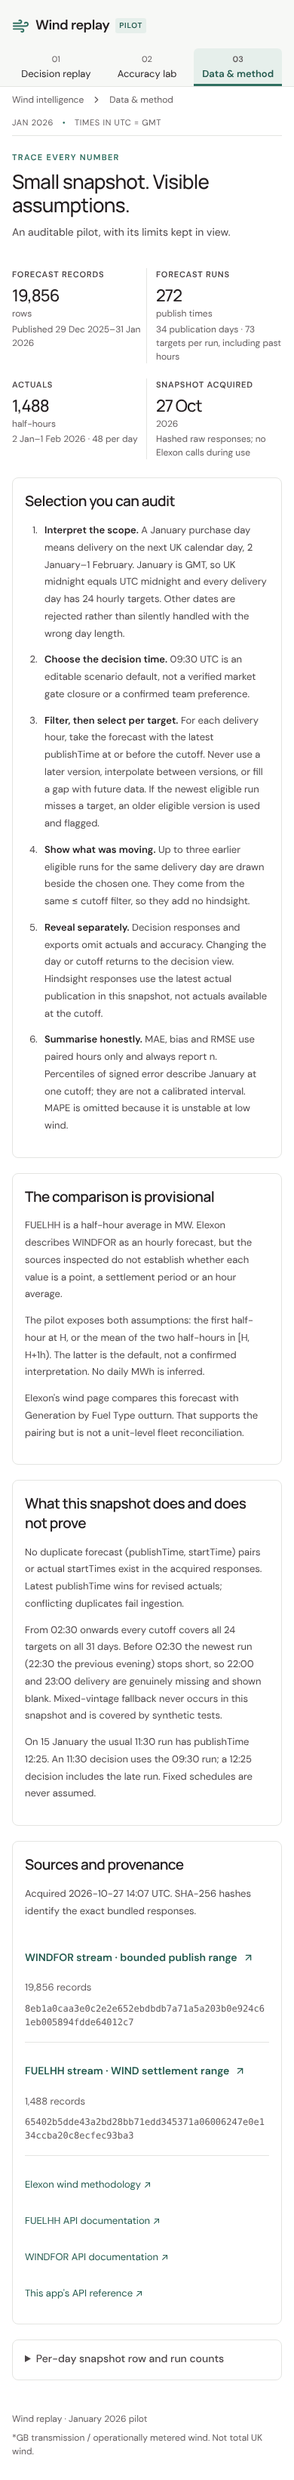
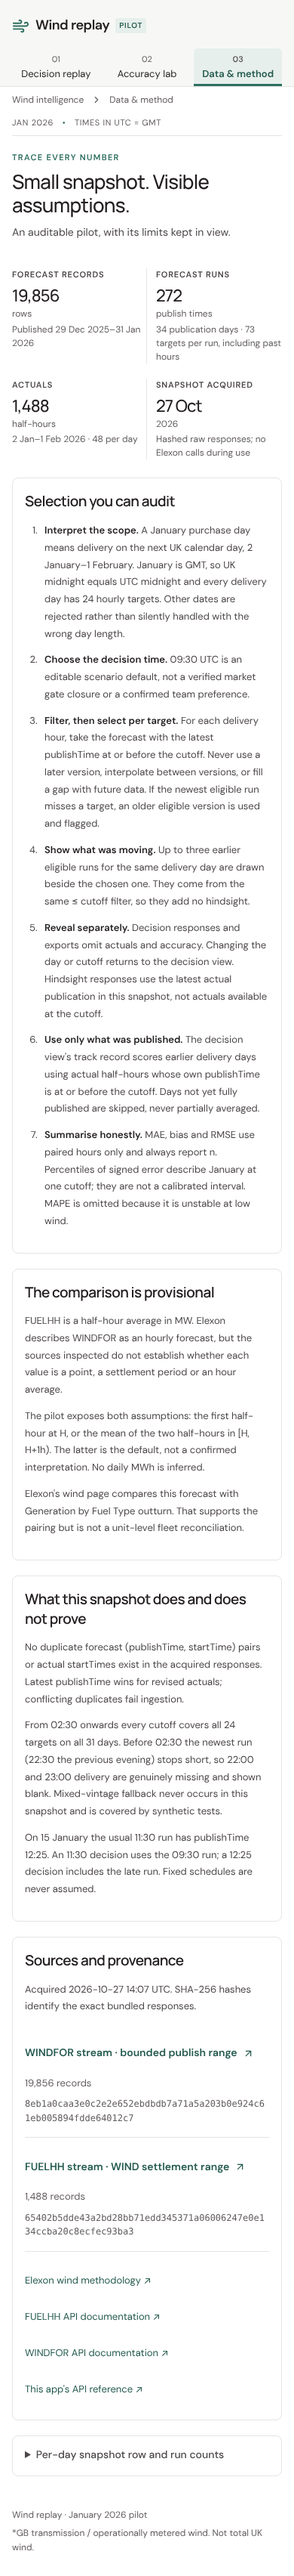
Document the track record, backtest findings and CI result
Record the passing CI run for the second pass, describe the publish-time
gating and its limits, and refresh screenshots.

diff --git a/README.md b/README.md
@@ -6,7 +6,8 @@ A January 2026 wind-forecast workbench for a UK day-ahead purchasing team. It an
 
 - **Repository.** Public at https://github.com/shubhanshu2103/k7m2q9.
 - **First version.** GitHub Actions passed for commit `5276489`: [run 40538346465](https://github.com/shubhanshu2103/k7m2q9/actions/runs/40538346465). That run covered pytest, the production build, Playwright, and a Docker image build with a container health/replay smoke.
-- **Second pass.** Described below. It was verified locally (see [Verify](#verify)) but has **not yet been pushed, so CI has not run on it**. A local Docker rebuild of the second pass was blocked by Docker Hub rate limiting (HTTP 429) in the authoring environment.
+- **Second pass.** Pushed to branch `second-pass-decision-workbench`; GitHub Actions passed every step for commit `8f3746b`, including the Docker build and container smoke: [run 40546173350](https://github.com/shubhanshu2103/k7m2q9/actions/runs/40546173350). `main` still points at the first version.
+- **Third pass.** The decision-time track record and its backtest, described below. Verified locally (see [Verify](#verify)); CI has not run on it until it is pushed.
 - **Still pending.** Vercel/Heroku deployment: **no deployed application link exists yet**. Also pending: the demo video and the form submission.
 
 ## Product
@@ -17,6 +18,7 @@ The app has three screens, and every scenario is kept in the URL so a view can b
   - **Forecast used.** The 24 hourly forecasts for the next UK day, chosen per target from runs published at or before the cutoff.
   - **Provenance.** The run used, its age and lead times, and which targets have no eligible forecast. Missing targets are left blank.
   - **Earlier runs and revision.** Up to three earlier eligible runs are drawn beside the chosen one, with the mean and largest change since the previous run. A buyer can see whether the outlook was moving, with no hindsight.
+  - **Track record known at decision time.** How forecasts at the same cutoff fared over the last seven complete delivery days: MAE, bias, bias by hour and each day. It counts only actuals whose own `publishTime` is at or before the cutoff, so it was genuinely knowable when deciding. It is labelled as context, not a prediction or a correction.
   - **Export.** The decision export contains no actuals.
 - **Hindsight is a separate, labelled mode.** "Reveal actuals" switches to an amber *Hindsight view* with MAE, signed bias, the largest miss and a per-hour error chart.
   - Changing the day or the cutoff starts a new decision and returns to the forecast-only view, so hindsight cannot silently carry over.
@@ -26,6 +28,7 @@ The app has three screens, and every scenario is kept in the URL so a view can b
   - **Shortfall summary.** How often, and by how much, wind came in below the as-of forecast (percentiles of signed error).
   - **Bad days.** Daily error chart with the five worst days. Clicking a bar or a listed day opens that exact replay in hindsight mode with the same cutoff and rule.
   - **Cutoff sweep.** "Would deciding later have helped?" across 24 hourly cutoffs, flagging cutoffs whose coverage is incomplete.
+  - **Track-record backtest.** "Was the recent track record a useful guide?" Compares each day's track record with how that day turned out, and backtests a naive "subtract the recent bias" adjustment. Nothing used is published after the cutoff.
   - **Also included:** comparison-rule sensitivity and hour-of-day bias.
 - **Data & method.** Source URLs, response hashes, per-day record counts, method steps and the limitations behind the numbers.
 
@@ -77,7 +80,7 @@ npm run test:e2e
 python scripts/audit.py             # independent recomputation of the default month
 ```
 
-Observed for the second pass, locally: **37 Python tests and 12 browser tests pass**, the strict TypeScript build passes and the independent audit reproduces the baseline numbers exactly. Browser tests start and stop their own backend on port 8000, so stop any local server first. No tests are skipped. Starlette's TestClient emits one deprecation warning; it does not fail the tests.
+Observed for the current working tree, locally: **42 Python tests and 13 browser tests pass**, the strict TypeScript build passes and the independent audit reproduces the baseline numbers exactly. Browser tests start and stop their own backend on port 8000, so stop any local server first. No tests are skipped. Starlette's TestClient emits one deprecation warning; it does not fail the tests.
 
 **Python tests cover:**
 - inclusive publication boundaries and exclusion of future versions
@@ -87,6 +90,7 @@ Observed for the second pass, locally: **37 Python tests and 12 browser tests pa
 - percentile definitions
 - earlier-run selection: always older than the chosen run, never after the cutoff
 - the real early-cutoff coverage gap and the cutoff sweep
+- the track record: complete days only, an actual published one minute after the cutoff is excluded, the inclusive boundary, and every real track-record actual published by the cutoff
 - validation and 422 messages
 - CSV privacy and filenames
 - all 31 delivery days at seven cutoff scenarios
@@ -138,13 +142,14 @@ Neither rule is semantically established, and similar sensitivity results do not
 
 The official Elexon wind page directly compares WINDFOR with Generation by Fuel Type outturn. That supports the intended comparison but does not establish a unit-level fleet reconciliation. Scope is visible/operationally metered GB transmission wind, **not all embedded wind or total UK wind**.
 
-Actuals use the latest publishTime returned per startTime in the fixed snapshot. They are retrospective, not claimed to have been available at the purchase cutoff. This response has one row per actual startTime and no revisions, which does not prove historical revisions never existed. Exact duplicate observations are deduplicated; conflicting generation at identical keys raises an error rather than silently picking one.
+Actuals use the latest publishTime returned per startTime in the fixed snapshot. In hindsight views they are retrospective and not claimed to have been available at the purchase cutoff. The decision-time track record is the one exception, and it is gated: it uses only past delivery days whose actual rows carry a `publishTime` at or before the cutoff. FUELHH rows in this snapshot were published 30–145 minutes after each half-hour began. This response has one row per actual startTime and no revisions, which does not prove historical revisions never existed. Exact duplicate observations are deduplicated; conflicting generation at identical keys raises an error rather than silently picking one.
 
 ### Metrics
 
 - **Sign convention.** Error is forecast minus actual, so positive bias means over-forecast.
 - **What is reported.** MAE, bias, RMSE and the largest absolute error use paired hours only and always report n. Empty samples give null, never zero.
 - **Shortfall percentiles.** These are empirical P10/P50/P90 of signed error and P50/P90 of absolute error, using linear interpolation between ranks (numpy's default), plus the share of over-forecast hours. They describe January at one cutoff; they are **not** a calibrated interval, and none of them appears in the decision view.
+- **Track record.** For a decision at cutoff C on day D, the window is the up to seven most recent earlier purchase days whose delivery-day actuals were *all* published at or before C on D. Each day is scored against the forecast selected at C on its own purchase day. Incomplete days are skipped rather than averaged, because a part-reported day would over-represent the night. The snapshot holds one version per actual half-hour; if that version was published after C, the half-hour counts as missing even if an earlier version may have existed.
 - **MAPE.** Omitted because it is unstable at low wind.
 
 ### Snapshot findings
@@ -163,6 +168,10 @@ Actuals use the latest publishTime returned per startTime in the fixed snapshot.
 - **Headline metrics.** 744 pairs, MAE 2,013.01 MW, signed bias +1,729.93 MW, RMSE 2,505.94 MW. First-half-hour comparison gives MAE 1,995.57 MW and bias +1,727.98 MW.
 - **Shortfall percentiles.** 84% of hours were over-forecast. The 90th percentile of signed error is 4,144 MW, the median absolute error 1,608 MW and the 10th percentile −489 MW.
 - **Five worst days.** Delivery 28, 12, 11, 21 and 27 January. Every hour of those days was over-forecast (MAE equals bias).
+
+**Track-record backtest (09:30, hourly mean, 29 purchase days with a track record, 696 hours).**
+- **Not predictive day to day.** The correlation between the trailing seven-day bias and that day's bias is −0.40; for MAE it is −0.52. A poor week did not foreshadow a poor next day. The windows overlap and n is small, so this is weak evidence either way.
+- **Bias was steady.** Subtracting the trailing bias from every forecast would have lowered MAE from 1,969 to 1,689 MW (−14%). This is in-sample for one month, and the bias's cause is unknown, so it is a question for the client, not a recommended correction. The app never shows an adjusted forecast.
 
 **Cutoff sweep (hourly cutoffs, hourly mean).**
 - **MAE falls slowly** from about 2,070 MW (03:00) to 2,013 MW (10:00), 1,901 MW (12:00) and 1,825 MW (23:00).
@@ -186,9 +195,9 @@ Refresh intentionally replaces the snapshot. After review, commit the new respon
 - `GET /api/health`
 - `GET /api/meta`: counts, per-day provenance and the snapshot manifest.
 - `GET /api/replay?decision=2026-01-15&cutoff=11:30&rule=hour_mean&reveal=false`
-  - Returns 24 points with `forecast`, `publishTime`, `fallback` and `age_hours`, plus `coverage` and `prior_runs`.
+  - Returns 24 points with `forecast`, `publishTime`, `fallback` and `age_hours`, plus `coverage`, `prior_runs` and `track_record` (built only from actuals published at or before the cutoff).
   - With `reveal=true` it also returns `actual`, `actual_publishTimes`, `error`, `metrics` and actual coverage. With `reveal=false` these are absent.
-- `GET /api/analysis?cutoff=09:30&rule=hour_mean`: month metrics, `distribution`, rule sensitivity, per-day and per-hour metrics.
+- `GET /api/analysis?cutoff=09:30&rule=hour_mean`: month metrics, `distribution`, rule sensitivity, per-day and per-hour metrics, and `track_record_check`.
 - `GET /api/cutoff-sweep?rule=hour_mean`: month MAE, bias, RMSE, paired n, forecast coverage and mean forecast age for each hourly cutoff 00:00–23:00.
 - `GET /api/export`: same parameters as replay. Returns CSV named by day, cutoff and view, e.g. `wind-replay-2026-01-15-0930-decision.csv`. Hidden actuals remain absent from the decision export.
 - `GET /docs`: generated API reference.
@@ -203,7 +212,8 @@ Refresh intentionally replaces the snapshot. After review, commit the new respon
 
 ```
 backend/engine.py              Pure domain logic: validation, per-target selection, earlier runs,
-                               actual revisions, metrics and percentiles; in-memory snapshot store
+                               actual revisions, metrics, percentiles and the publish-time-gated
+                               track record; in-memory snapshot store
 backend/app.py                 FastAPI routes, 422 mapping, CSV export, static asset serving
 frontend/main.tsx              Entry point
 frontend/App.tsx               Shell, navigation, URL-synchronised scenario, focus management
@@ -275,6 +285,7 @@ AI assistance was used in this project, as the brief permits.
   - the frontend split
   - URL state and hindsight reset
   - earlier runs, shortfall percentiles, the cutoff sweep and drill-through
+  - in a later pass, the decision-time track record and its backtest
   - styling and accessibility fixes
   - new tests and these documentation updates
 - **Review.** The author reviews and is responsible for all changes.

diff --git a/docs/demo-outline.md b/docs/demo-outline.md
@@ -8,6 +8,7 @@ Target: about 9 minutes in total, each part under five minutes. Recording, uploa
 2. **Decision view (60 s).** Open on 15 January at 09:30. Point to the green *Decision view* banner, then cover:
    - **What was available.** 24/24 targets, the 09:30 run, created 0 h before the cutoff, with lead times of 14.5–37.5 h.
    - **Whether it was moving.** The three earlier runs are dashed. The latest run raised the evening by up to about 650 MW.
+   - **Track record.** Below the chart: at this cutoff, the past seven days' forecasts missed by about 2,300 MW on average and ran about 1.6 GW high. Every actual behind that was already published by 09:30.
    - **Use.** "This is what you could have acted on. No later run is ever used, and the export contains no actuals."
 3. **Point-in-time precision (40 s).** Set the cutoff to 11:30. The run used stays at 09:30, because the usual 11:30 run was only recorded at 12:25. Set 12:25 and it appears. Then open the shared link `?decision=2026-01-01&cutoff=01:00`: at 01:00 the 22:00–23:00 targets have no forecast yet, and the app leaves them blank rather than guessing.
 4. **Hindsight (50 s).** Click *Reveal actuals*. The banner turns amber. Show MAE 859 MW, bias +397 MW and the largest miss of +2,577 MW at 21:00. The error chart shows the evening over-forecast. Change the day: the app returns to the forecast-only view, so hindsight can't leak into the next decision.
@@ -16,6 +17,7 @@ Target: about 9 minutes in total, each part under five minutes. Recording, uploa
    - **Shortfall reading.** 84% of hours over-forecast, and in one hour in ten wind fell short of the forecast by more than about 4,100 MW. "That is the scale of error to keep in mind when deciding how much other generation you might need."
    - **Drill-through.** Click the worst day (delivery 28 January) to open its replay in hindsight.
    - **Cutoff sweep.** Waiting until midday lowers MAE by about 110 MW, but the bias barely moves.
+   - **Track-record check.** We tested the track record before asking you to trust it. A bad week did not predict a bad next day, but the over-forecast was steady enough that simply subtracting it would have cut January's error by 14%. That is the first thing to investigate together.
 6. **Close (20 s).** Reproducible decision context, quantified and honest error, and every assumption visible. Next step with the client: agree the cutoff and the temporal meaning, and investigate the bias together.
 
 Say plainly: this is GB transmission-metered wind. It does not use demand or price data, so it does not recommend a purchase volume.
@@ -27,6 +29,7 @@ Say plainly: this is GB transmission-metered wind. It does not use demand or pri
    - **`parse_scenario`.** The single validation boundary, mapped to 422.
    - **`select_forecasts`.** Filters `publishTime <= cutoff`, then takes the max per target. Missing stays missing; fallback is flagged.
    - **`_prior_runs`.** Uses the same filter, so it cannot leak future data.
+   - **`track_record`.** Gated by each actual's own `publishTime`. The test where an actual published one minute late is excluded is the one to show.
    - **`metrics` / `distribution`.** Paired points only, n always reported, null rather than zero.
 3. **Tests (60 s).** Show the test kinds:
    - **Synthetic tests:** inclusive boundary, future exclusion, mixed vintage, missing half-hour, conflicting duplicates and prior runs.

diff --git a/docs/architecture.md b/docs/architecture.md
@@ -28,6 +28,7 @@ Bounded Elexon GETs -> raw JSON + manifest -> in-memory Store (backend/engine.py
 - **Store loading.** The store normalises timestamps to aware UTC, rejects invalid numeric values, resolves actual revisions and indexes forecasts by target.
 - **`select_forecasts`.** Inclusive and per target.
 - **`_prior_runs`.** Reuses the same `publishTime <= cutoff` filter, then keeps up to three runs older than the newest selected run. It cannot add hindsight by construction.
+- **`track_record`.** Replays earlier purchase days at the same cutoff and pairs them with actuals through `_actual_for(..., available_by=cutoff)`, which treats any half-hour published after the cutoff as missing. Only complete days enter the window. `_track_record_check` backtests that context across the month. The API adds `track_record` to replay responses but not to CSV exports.
 - **`metrics` and `distribution`.** Pure functions over paired points.
 - **Caching.** Full-month analysis and the 24-cutoff sweep are `lru_cache`d per process. The data is immutable, and an uncached sweep takes about 1.1 s locally.
 
@@ -57,6 +58,9 @@ A multistage image builds TypeScript and React, then copies only the assets and 
   - There is no demand, price or portfolio data, so they are not turned into a volume.
 - **Cutoff sweep.** The cutoff is an assumption, so the useful question is how sensitive the answer is to it. The sweep shows that later cutoffs reduce MAE only modestly while the large positive bias persists. It also surfaced a real coverage gap for cutoffs before 02:30.
   - It does not claim when the market actually closes.
+- **Track record at decision time (third pass).** FUELHH rows carry their own `publishTime`, 30–145 minutes after each half-hour in this snapshot. So the decision view can show how the same cutoff's forecasts fared over recent complete delivery days using only actuals published by the cutoff. This is the legitimate decision-time version of "consider the quantified error".
+  - **Backtested in the Lab before anyone relies on it.** Day to day it was not predictive in January (correlations −0.40 for bias, −0.52 for MAE over 29 days). A naive bias subtraction would have cut MAE by 14%, but that is in-sample and the bias's cause is unknown.
+  - **What the UI does with that.** It shows the record as context with that caveat, and never shows an adjusted forecast.
 - **Drill-through over a new screen.** Poor days link to the exact replay with the same cutoff and rule, in an explicitly labelled hindsight mode. No new tab was added.
 
 ## Choices

diff --git a/docs/verification.md b/docs/verification.md
@@ -11,7 +11,24 @@
 
 These results apply to that commit only. The second pass does not inherit them.
 
-## Second pass (local, 27 October 2026, not yet pushed)
+## Second pass in CI
+
+Pushed to `second-pass-decision-workbench`. GitHub Actions [run 40546173350](https://github.com/shubhanshu2103/k7m2q9/actions/runs/40546173350) on commit `8f3746b` passed every step on Python 3.12 and Ubuntu: pytest (37), the audit, the production build, Playwright (12), the Docker image build, and the container health and replay smoke. This resolves the local Docker gap noted below.
+
+## Third pass (local, 27 October 2026)
+
+- **Formatting.** A Prettier-only commit formats the frontend and browser tests; no behaviour change.
+- **`python -m pytest -q`.** 42 passed. Five new tests:
+  - synthetic complete-day track record
+  - an actual published one minute after the cutoff is excluded, and the inclusive boundary at that minute
+  - real-snapshot gating: every actual behind the 15 and 31 January track records was published by the cutoff
+  - the pinned backtest values
+  - the decision replay carrying a track record with no current-day actuals, and an unchanged export
+- **`npm run test:e2e`.** 13 passed. New: the track-record panel in the decision view, the empty state on 2 January, and the link to the Lab backtest.
+- **Other checks.** `npm run build`, `python scripts/audit.py` and Ruff (F rules) pass. Uncached full-month analysis now takes about 0.45 s locally because of the backtest, then it is cached per process; a decision-view track record takes about 13 ms.
+- **Visual inspection.** The new panels were checked at 1440, 390 and 320px with no horizontal overflow. Fixed after review: an awkward "7 of up to 7" sentence, a missing caption on the mini chart, and an inherited red accent on the backtest panel.
+
+## Second pass (local, 27 October 2026, before push)
 
 Environment: Linux container, Python 3.13, Node 22, Playwright 1.64 with a preinstalled Chromium via `PW_CHROMIUM_PATH`.
 
